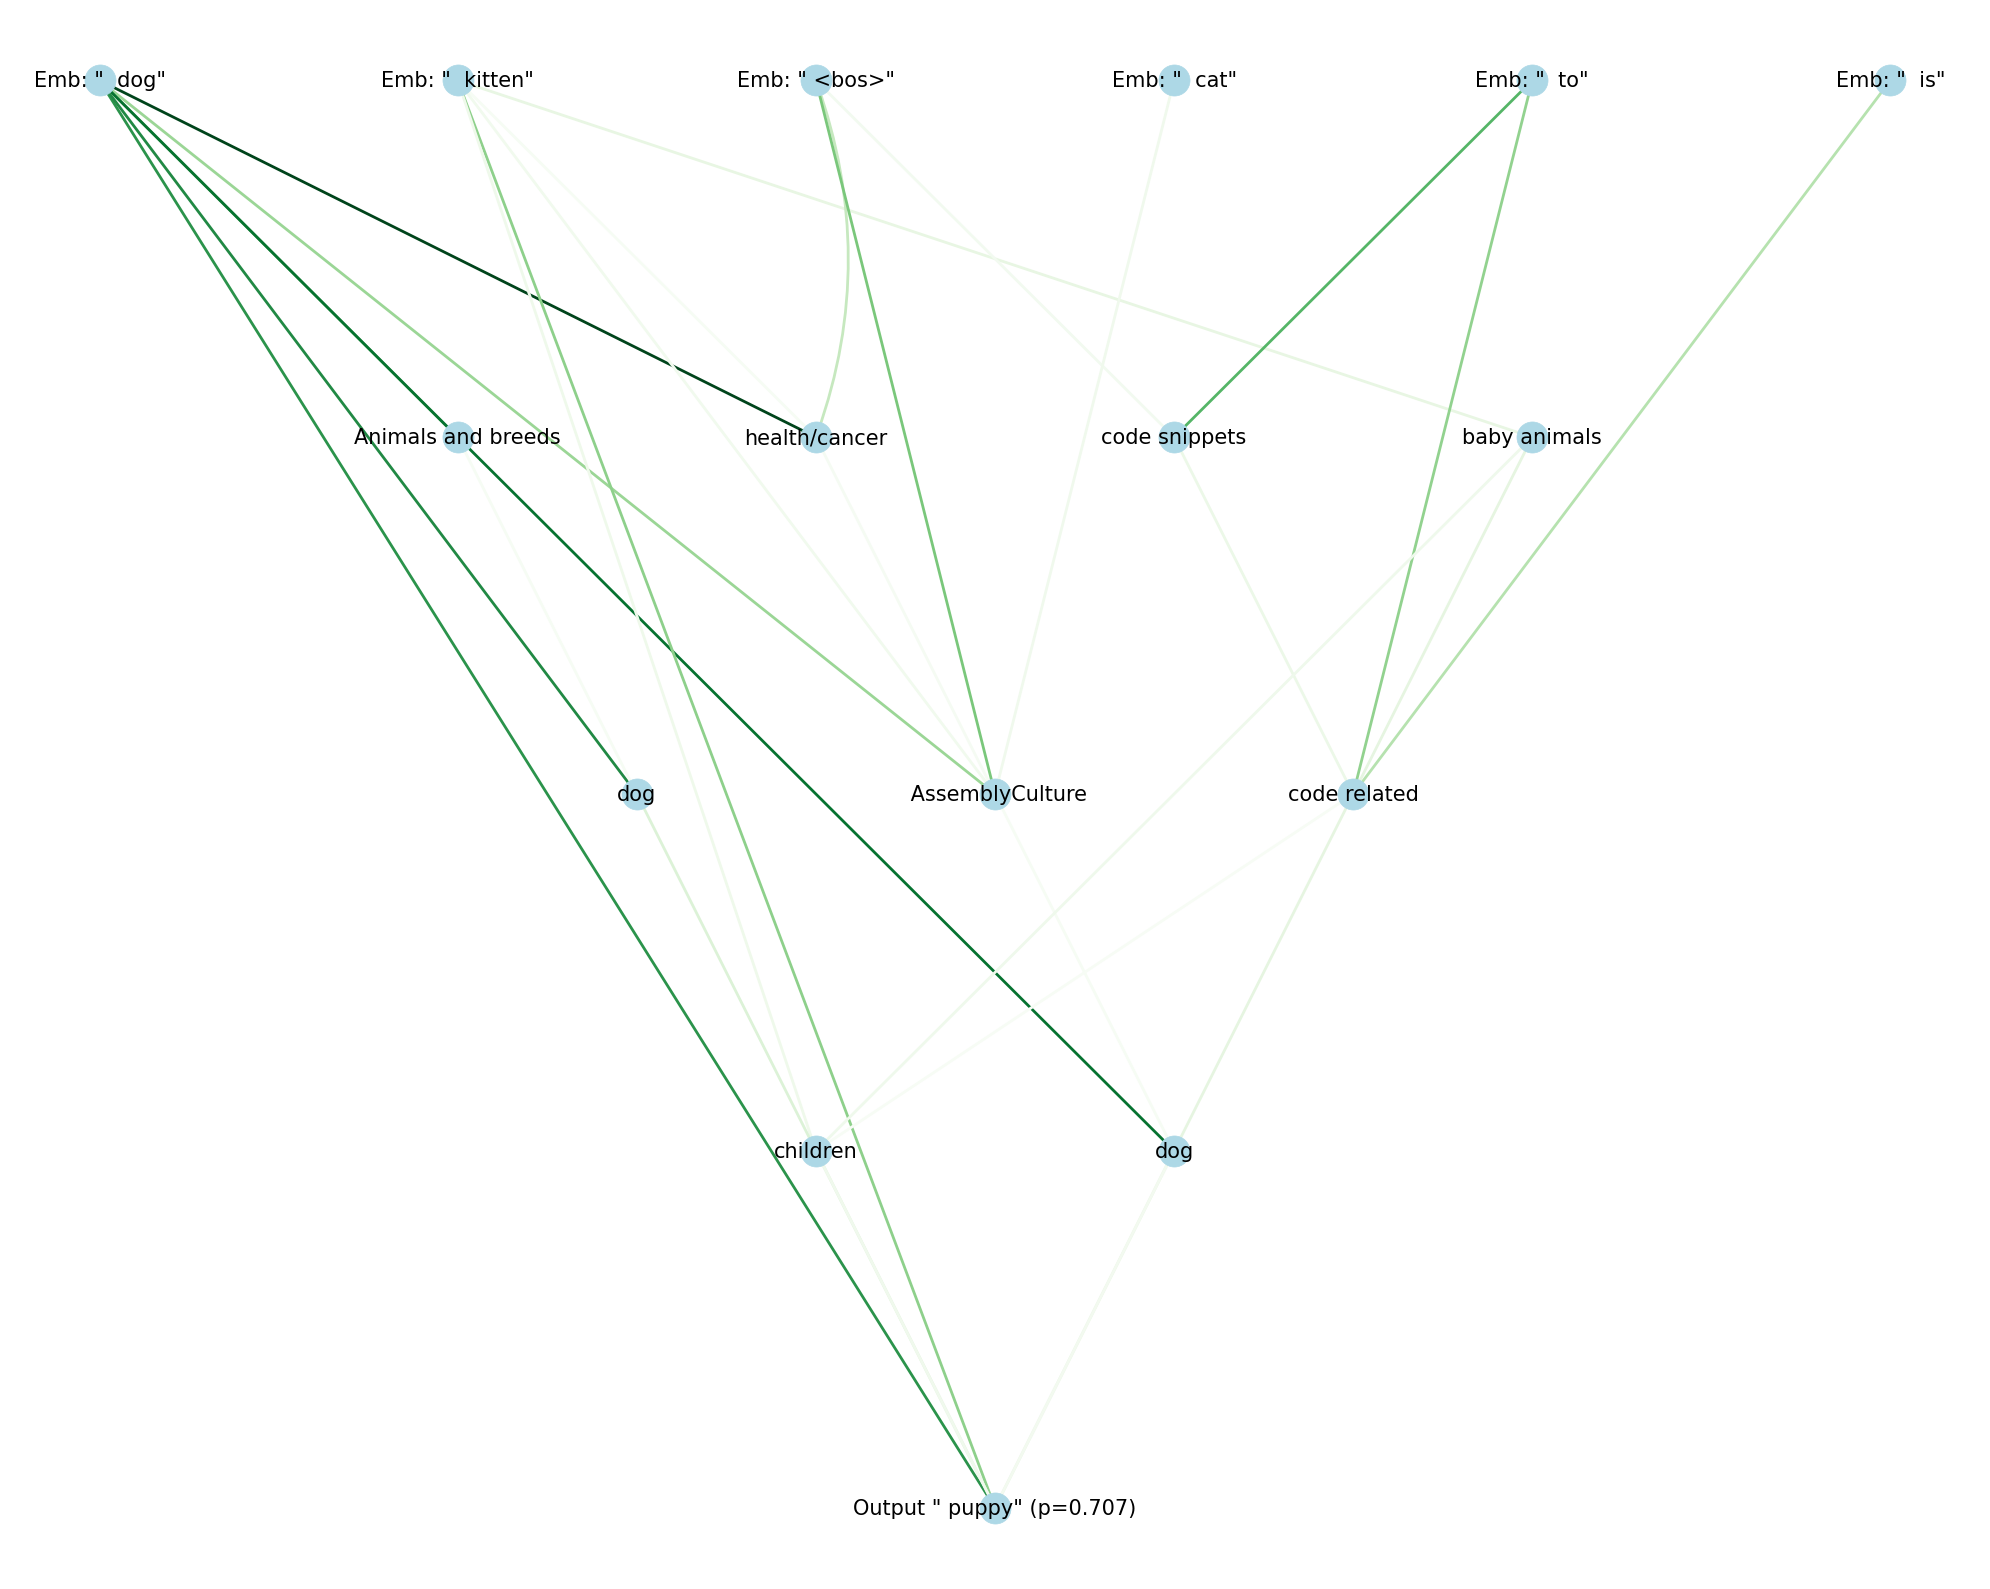
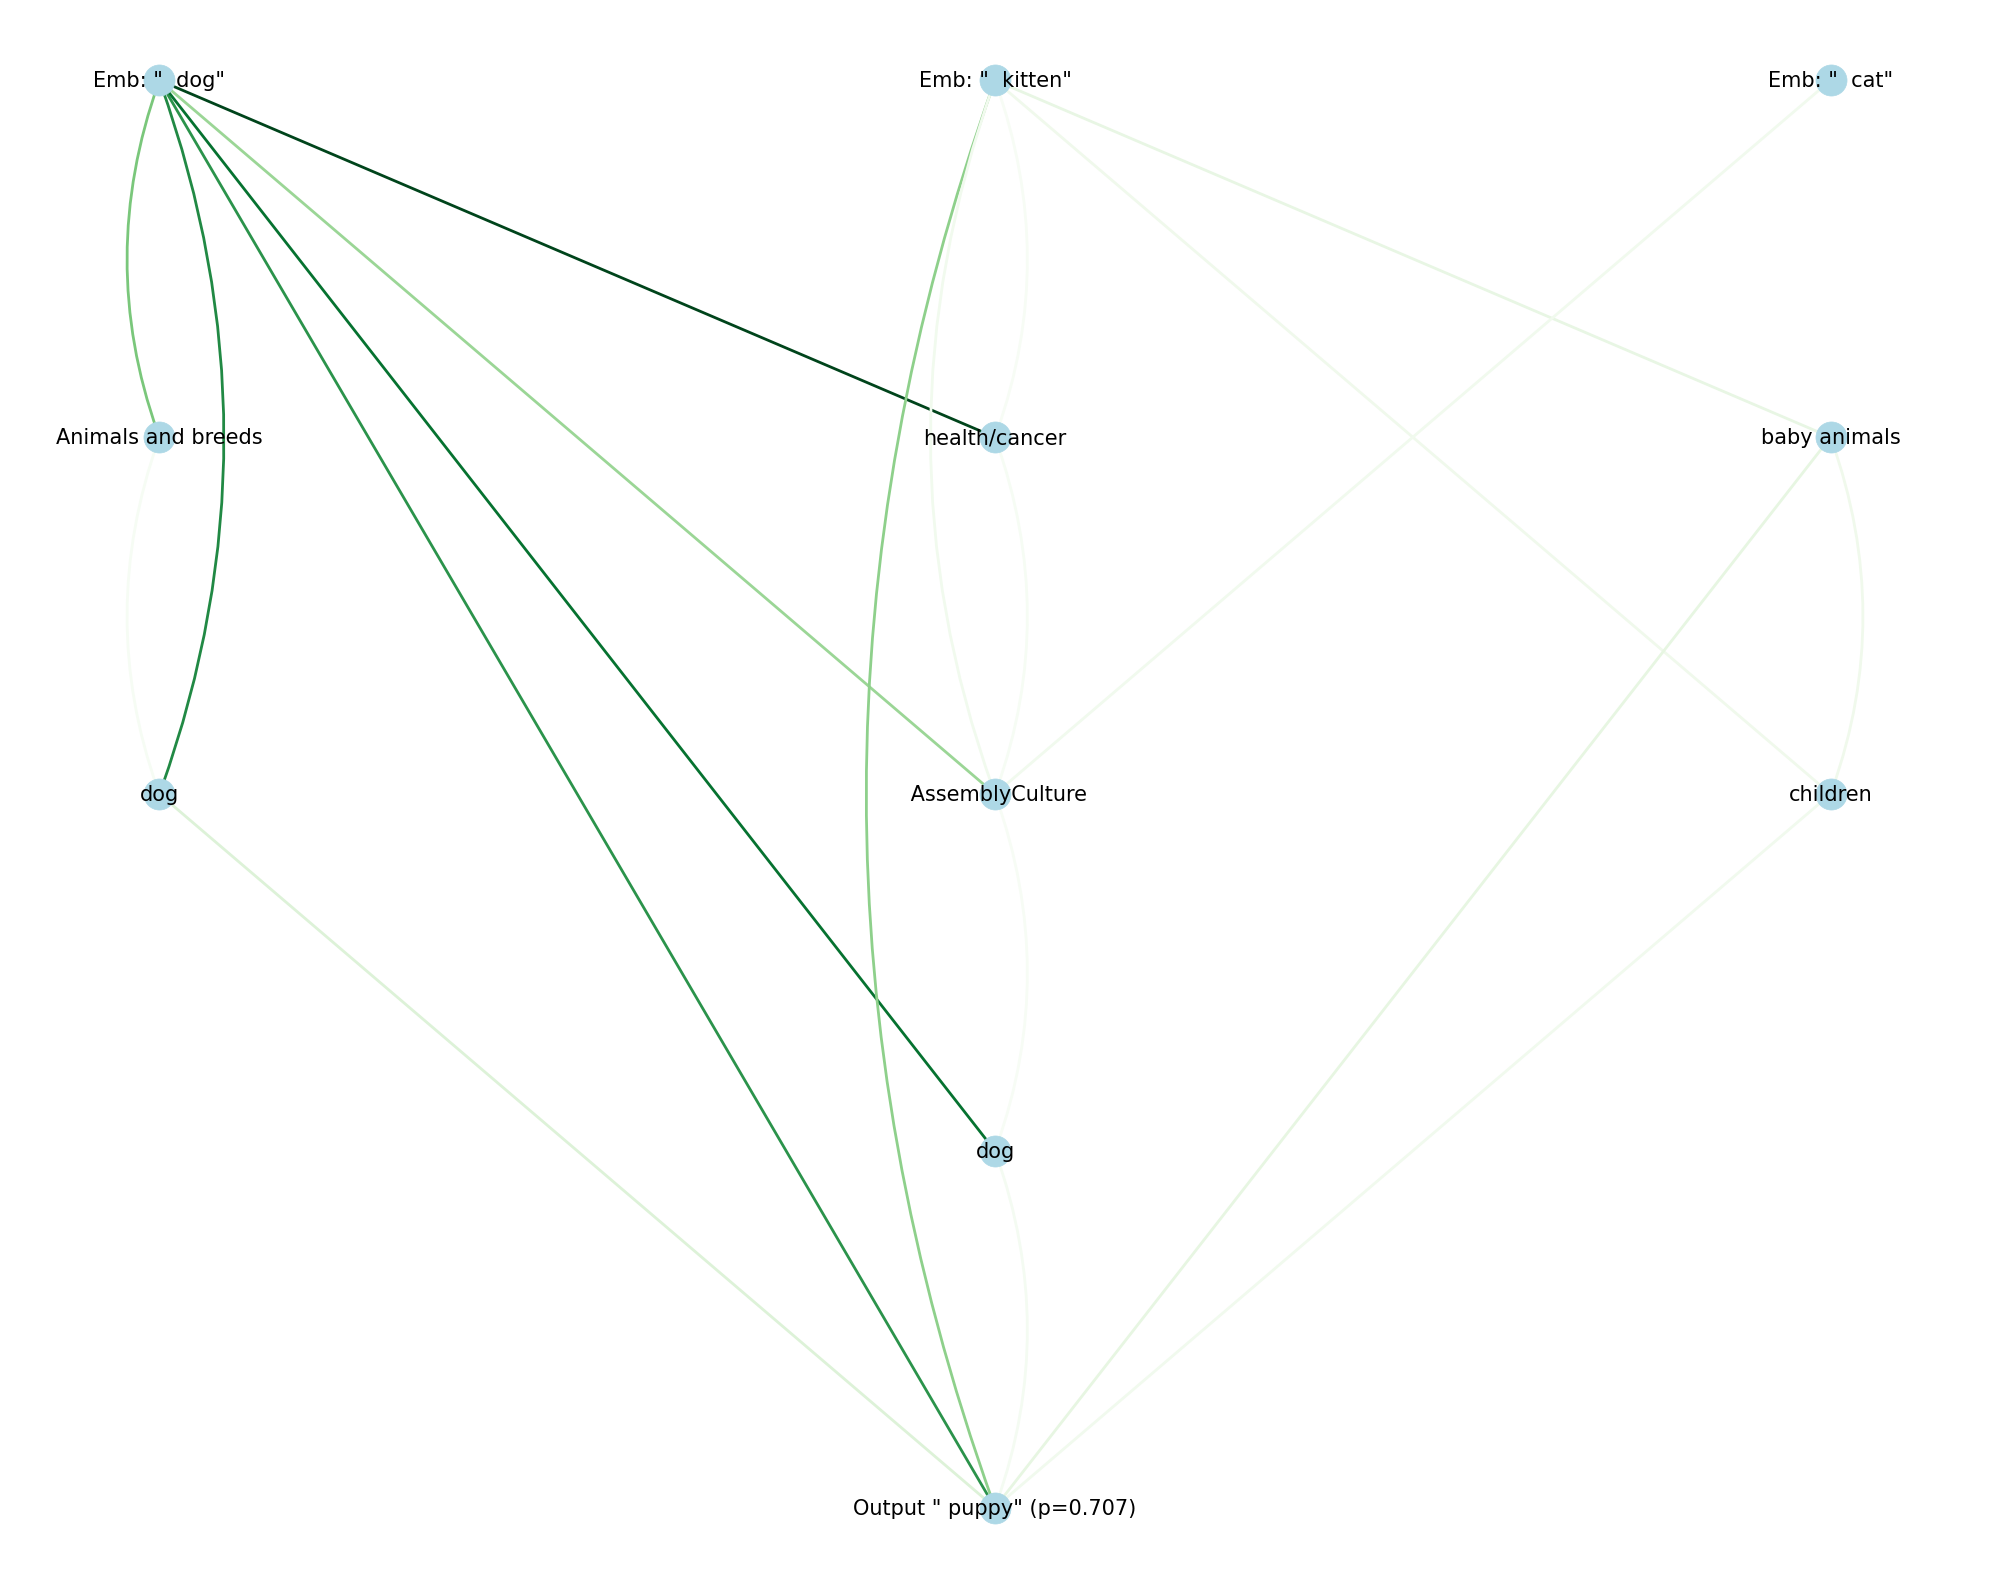
add mask token

diff --git a/circuit_tracer/subgraph/pruning.py b/circuit_tracer/subgraph/pruning.py
@@ -1,9 +1,20 @@
 import torch
-
+import numpy as np
 from circuit_tracer.graph import Graph, PruneResult, prune_graph, normalize_matrix, compute_influence
-from typing import Optional
+from typing import List, Optional
 from utils import get_adj_from_json
 import networkx as nx  # type: ignore
+
+def get_graph_from_json(json_path: str):
+    """Load a nx.DiGraph object from a JSON file."""
+    adj, node_ids, attr = get_adj_from_json(json_path)
+
+    G = nx.from_numpy_array(adj.numpy(), create_using=nx.DiGraph)
+
+    mapping = {i: node_id for i, node_id in enumerate(node_ids)}
+    G = nx.relabel_nodes(G, mapping)
+
+    return G, attr
 
 def trim_graph(json_path: str, top_k: int = 3, edge_threshold: float = 0.85):
     """Create a NetworkX DiGraph from a graph JSON file produced by create_graph_files*.
@@ -58,7 +69,7 @@ def trim_graph(json_path: str, top_k: int = 3, edge_threshold: float = 0.85):
 
     # Remove nodes with no incoming or outgoing edges
     while True:
-        nodes_to_remove  = set()
+        nodes_to_remove = set()
 
         for node in list(G.nodes):
             if G.in_degree(node) == 0 and attr[node]['feature_type'] != 'embedding':
@@ -75,6 +86,44 @@ def trim_graph(json_path: str, top_k: int = 3, edge_threshold: float = 0.85):
 
     assert nx.is_directed_acyclic_graph(G), "The resulting graph G is not a DAG."
     return G, attr
+
+def mask_token(graph: nx.DiGraph, attr: dict, mask: List):
+    """Create a masked version of the input graph by removing embedding nodes specified in the mask.
+
+    Args:
+        graph: The input graph.
+        attr: Node attributes.
+        mask: A boolean tensor indicating which nodes to remove.
+
+    Returns:
+        A new graph with the specified nodes removed.
+    """
+
+    G = graph.copy()
+    nodes_to_remove = [node for node in G.nodes if attr[node]['feature_type'] == 'embedding' and not mask[attr[node]['ctx_idx']]]
+    print(nodes_to_remove)
+    G.remove_nodes_from(nodes_to_remove)
+
+    # Remove nodes with no incoming or outgoing edges
+    while True:
+        nodes_to_remove = set()
+
+        for node in list(G.nodes):
+            if G.in_degree(node) == 0 and attr[node]['feature_type'] != 'embedding':
+                nodes_to_remove.add(node)
+            if G.out_degree(node) == 0 and attr[node]['feature_type'] != 'logit':
+                nodes_to_remove.add(node)
+
+        if not nodes_to_remove:
+            break
+
+        G.remove_nodes_from(nodes_to_remove)
+
+    attr = {node: attr[node] for node in G.nodes}
+
+    assert nx.is_directed_acyclic_graph(G), "The resulting graph G is not a DAG."
+    return G, attr
+
 
 if __name__ == "__main__":
     graph_path = "demos/graph_files/factthelargestco-1755767633671_2025-09-26T13-34-02-113Z.json"

diff --git a/circuit_tracer/subgraph/visualization.py b/circuit_tracer/subgraph/visualization.py
@@ -1,5 +1,5 @@
 from platform import node
-from circuit_tracer.subgraph.pruning import trim_graph
+from circuit_tracer.subgraph.pruning import trim_graph, mask_token
 from circuit_tracer.subgraph.grouping import greedy_grouping
 from circuit_tracer.subgraph.distance import build_distance_graph_from_clerp
 from circuit_tracer import ReplacementModel
@@ -122,12 +122,14 @@ def visualize_clusters(
     return layers
 
 if __name__ == "__main__":
-    prompt = "Before is to after as past is to"
+    prompt = "<bos> If cat is to kitten as dog is to"
     graph_path = "demos/graph_files/puppy-clt.json"
     name = graph_path.split('/')[-1].split('.')[0]
     top_k = 10
-    edge_threshold = 0.25
+    edge_threshold = 0.3
+    mask = [0, 0, 1, 0, 0, 1, 0, 1, 0, 0]
     G, attr = trim_graph(graph_path, top_k=top_k, edge_threshold=edge_threshold)
+    G, attr = mask_token(G, attr, mask = mask)
     print(f"Created graph with {G.number_of_nodes()} nodes and {G.number_of_edges()} edges.")
     for node in G.nodes():
         print(node, attr[node].get('clerp', ''))
